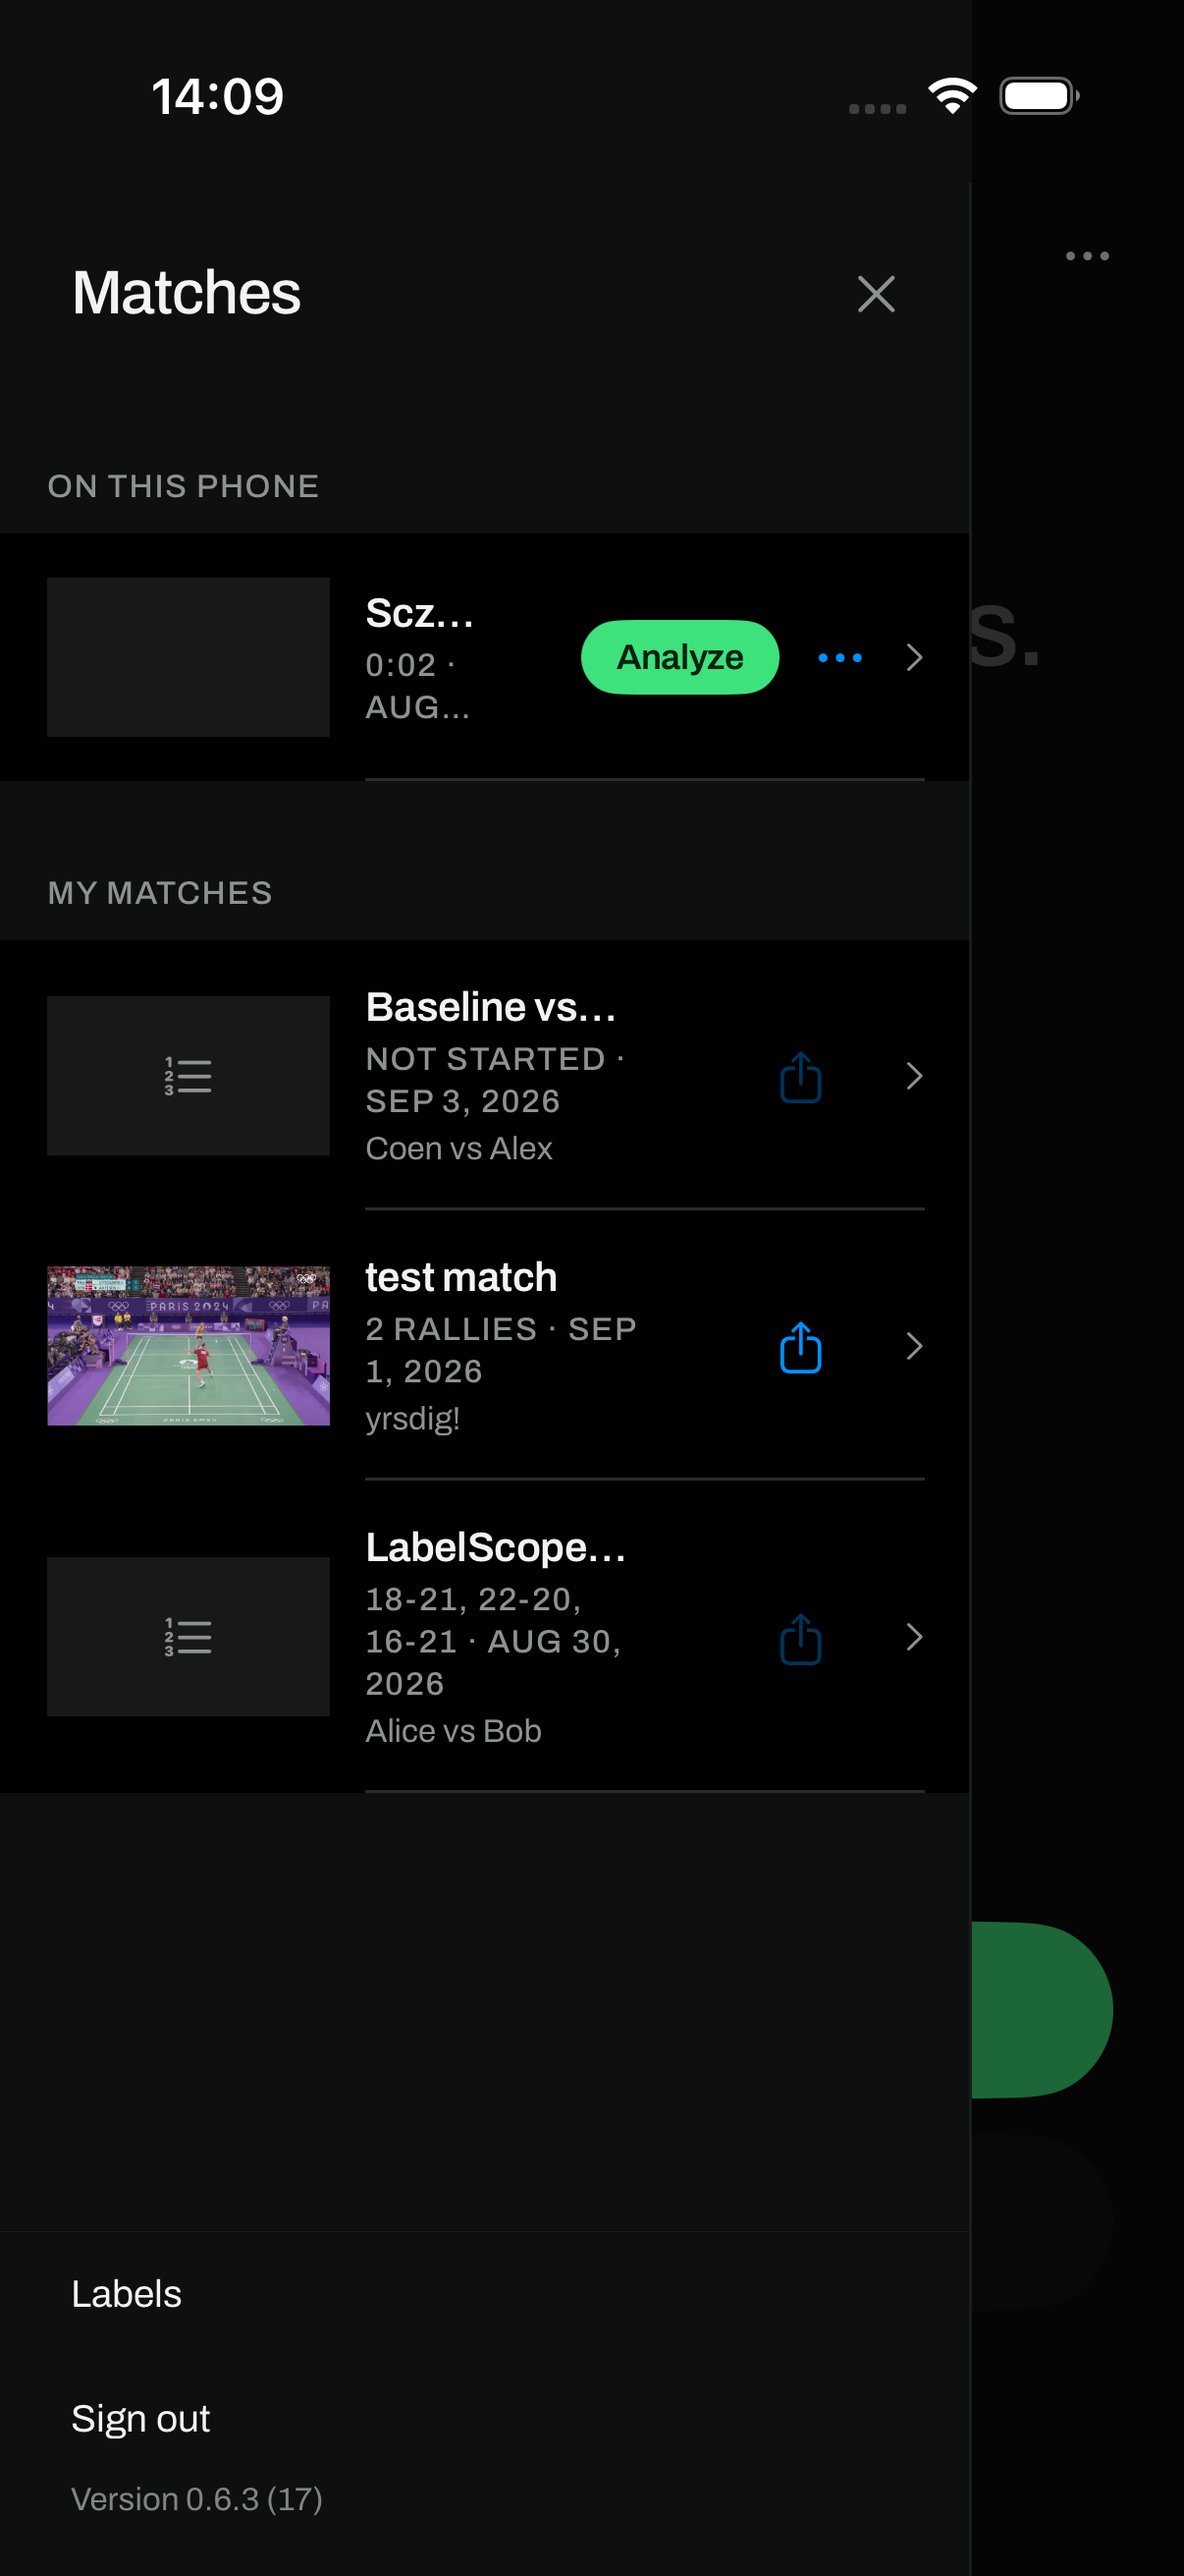
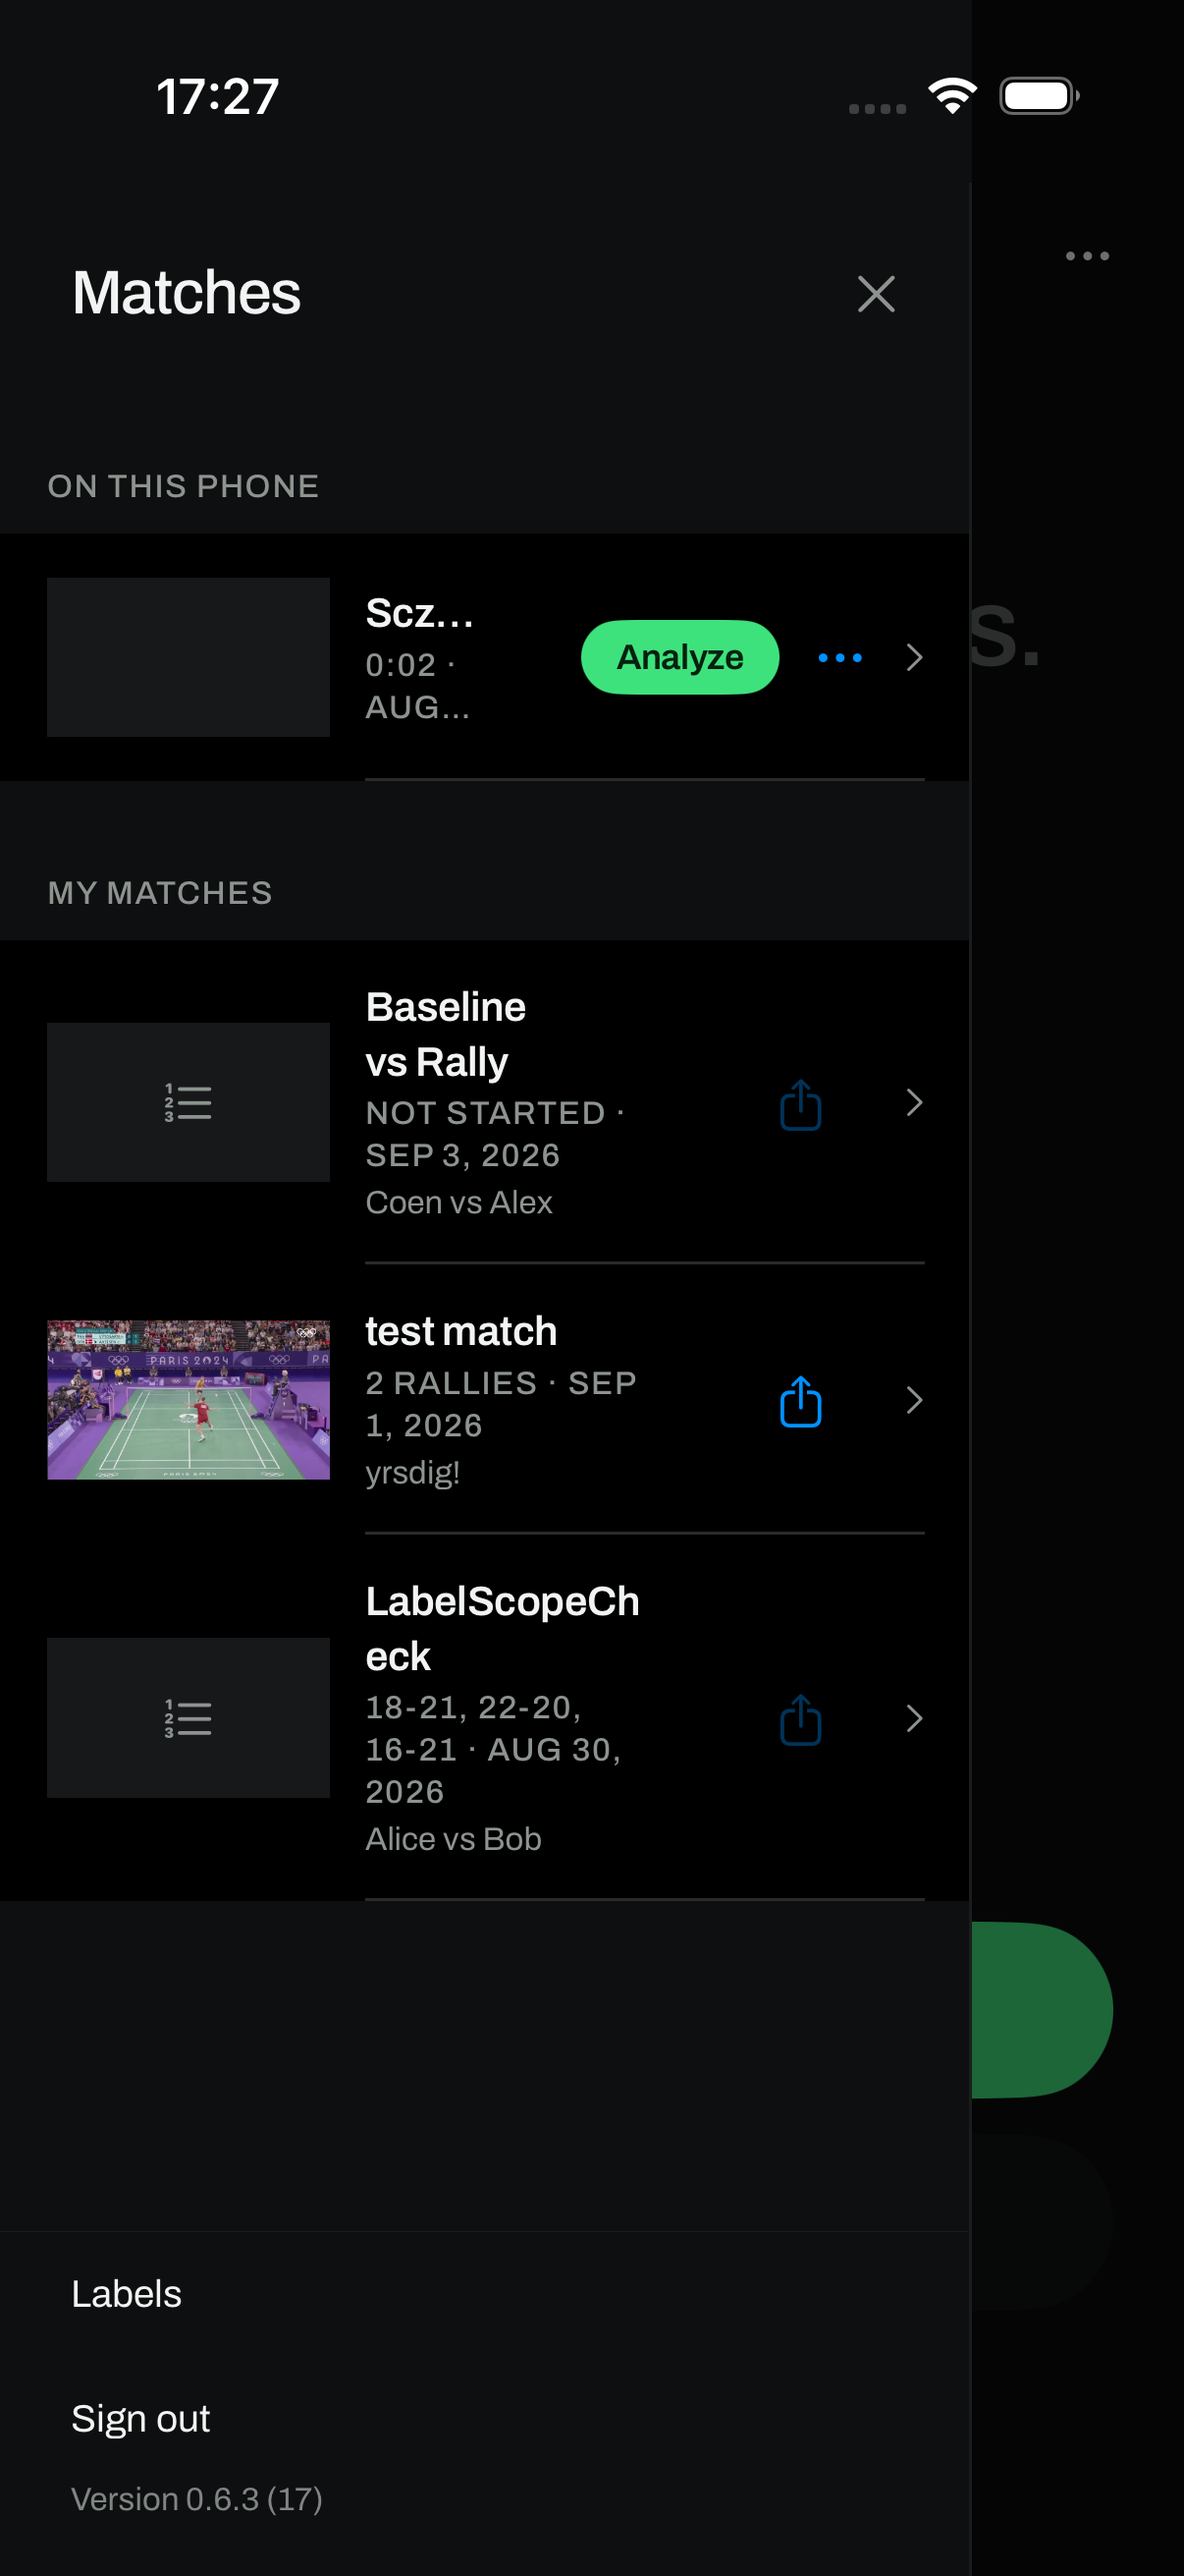
fix(ios): let long match titles wrap in the drawer instead of clipping
The drawer is 330pt wide, narrower than the full-screen list this row
used to sit in, and titleMedium's lineLimit(1) turned "Baseline vs
Rally" into "Baseline..." and "LabelScopeCheck" into "LabelScope...".
The mock's own "My matches" row carries no truncation styling (unlike
"On this phone", which explicitly asks for nowrap+ellipsis and is left
alone), so a title with room to wrap should wrap rather than clip.

Bumped row(_:model:) and scoreRow(_:model:) in ClipListView.swift from
lineLimit(1) to lineLimit(2). Verified per title on device: "Baseline
vs Rally" now wraps across two lines in full, and "LabelScopeCheck" -
one unbroken word with no word-break opportunity - also renders in
full ("LabelScopeCh" / "eck") rather than truncating, so this turns out
to be a complete fix rather than the partial one a wrap-only title
would have needed.

Re-captured ios-drawer-{light,dark}.png and ios-matches-{light,dark}.png,
the four screenshots this touches (the two names are the same on-screen
state under two filenames, since the list became the drawer this phase).

diff --git a/iosApp/Sources/ClipList/ClipListView.swift b/iosApp/Sources/ClipList/ClipListView.swift
@@ -281,10 +281,15 @@ struct MatchesList: View {
                 .task { await model.thumbnail(forCoverOf: match) }
 
                 VStack(alignment: .leading, spacing: 4) {
+                    // 2, not 1: the drawer is 330pt wide, narrower than the
+                    // full-screen list this row used to sit in, and the mock's
+                    // own "My matches" row (unlike "On this phone"'s explicit
+                    // nowrap+ellipsis) has no truncation styling - a title
+                    // that has room to wrap should, not clip.
                     Text(matchRowPrimary(match))
                         .shuttlType(ShuttlType.titleMedium)
                         .foregroundStyle(Shuttl.text)
-                        .lineLimit(1)
+                        .lineLimit(2)
                     Text(matchRowSecondary(match))
                         .shuttlType(ShuttlType.labelSmall)
                         .foregroundStyle(Shuttl.textSecondary)
@@ -370,10 +375,17 @@ struct MatchesList: View {
                 }
 
                 VStack(alignment: .leading, spacing: 4) {
+                    // Same reasoning as row(_:model:) above: the drawer is
+                    // narrower than the full-screen list this row came from,
+                    // and the mock's "My matches" title has no truncation
+                    // styling, so a wrappable title should wrap rather than
+                    // clip. A single unbroken word longer than the row (e.g.
+                    // "LabelScopeCheck") still truncates - no line-break
+                    // opportunity exists for it at any width, mock included.
                     Text(card.title)
                         .shuttlType(ShuttlType.titleMedium)
                         .foregroundStyle(Shuttl.text)
-                        .lineLimit(1)
+                        .lineLimit(2)
                     Text("\(card.scoreLine.uppercased()) · \(formatMatchDate(millis: card.createdAtEpochMs).uppercased())")
                         .shuttlType(ShuttlType.labelSmall)
                         .foregroundStyle(Shuttl.textSecondary)
